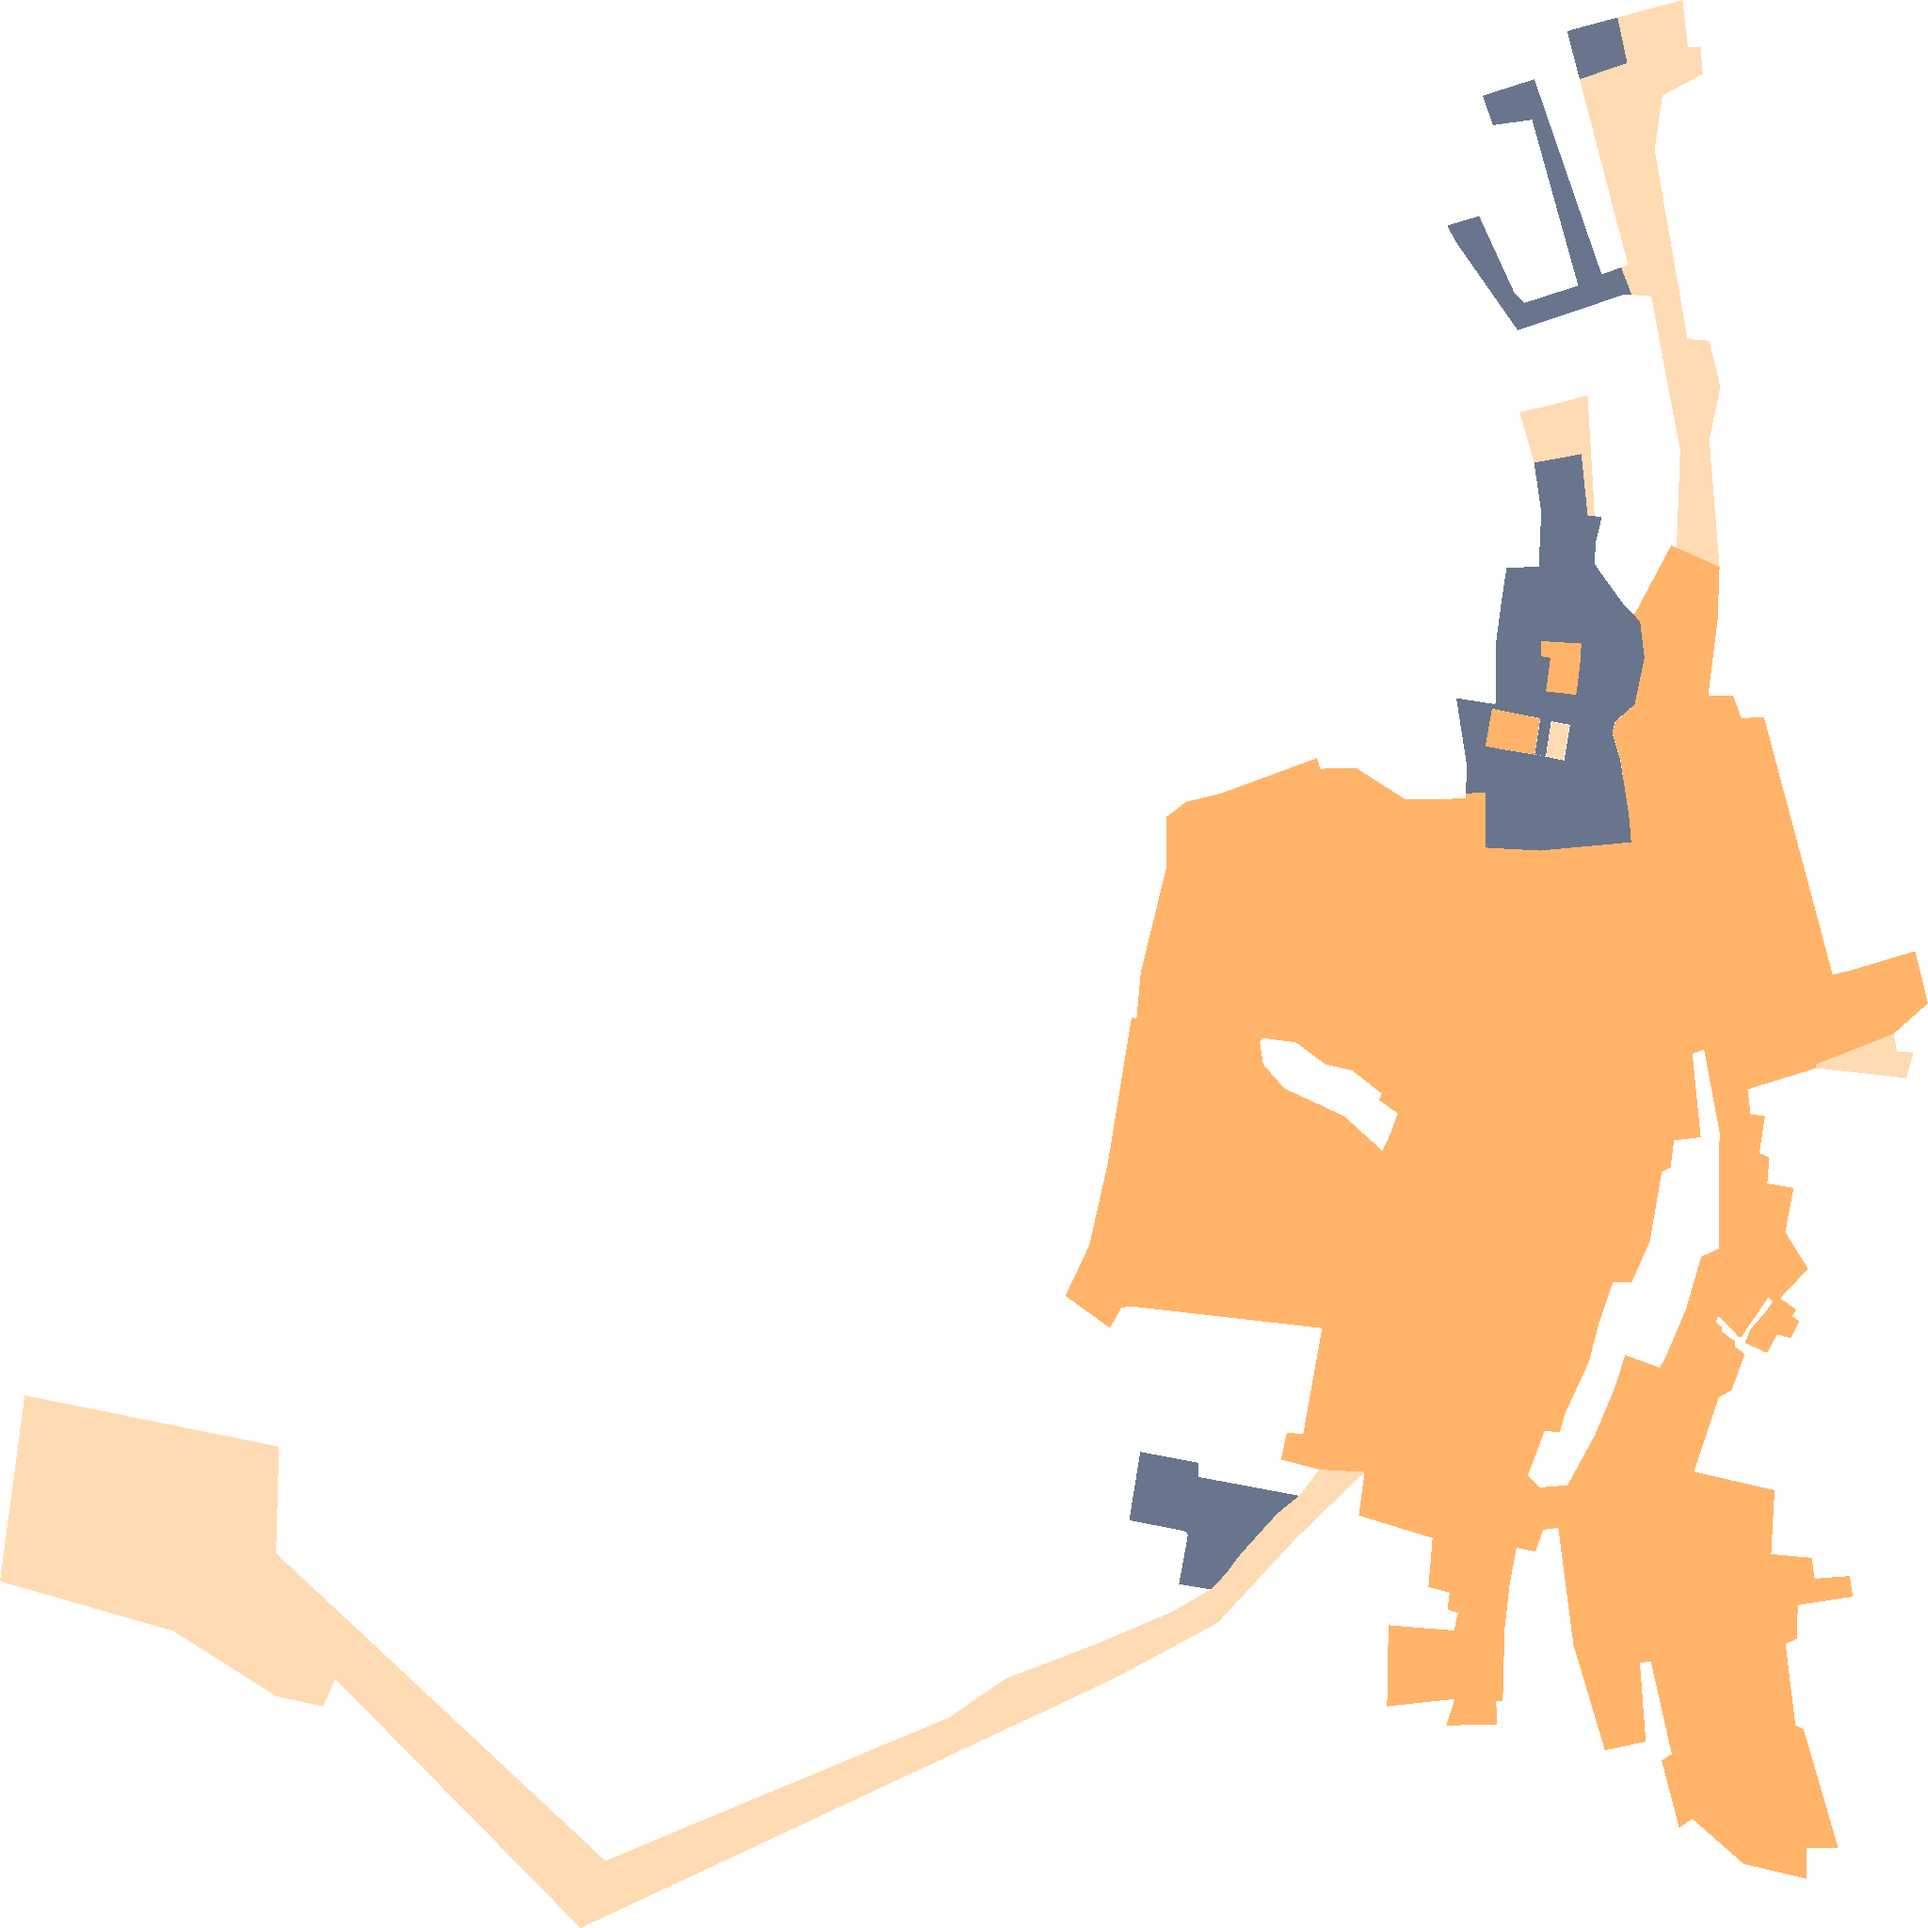
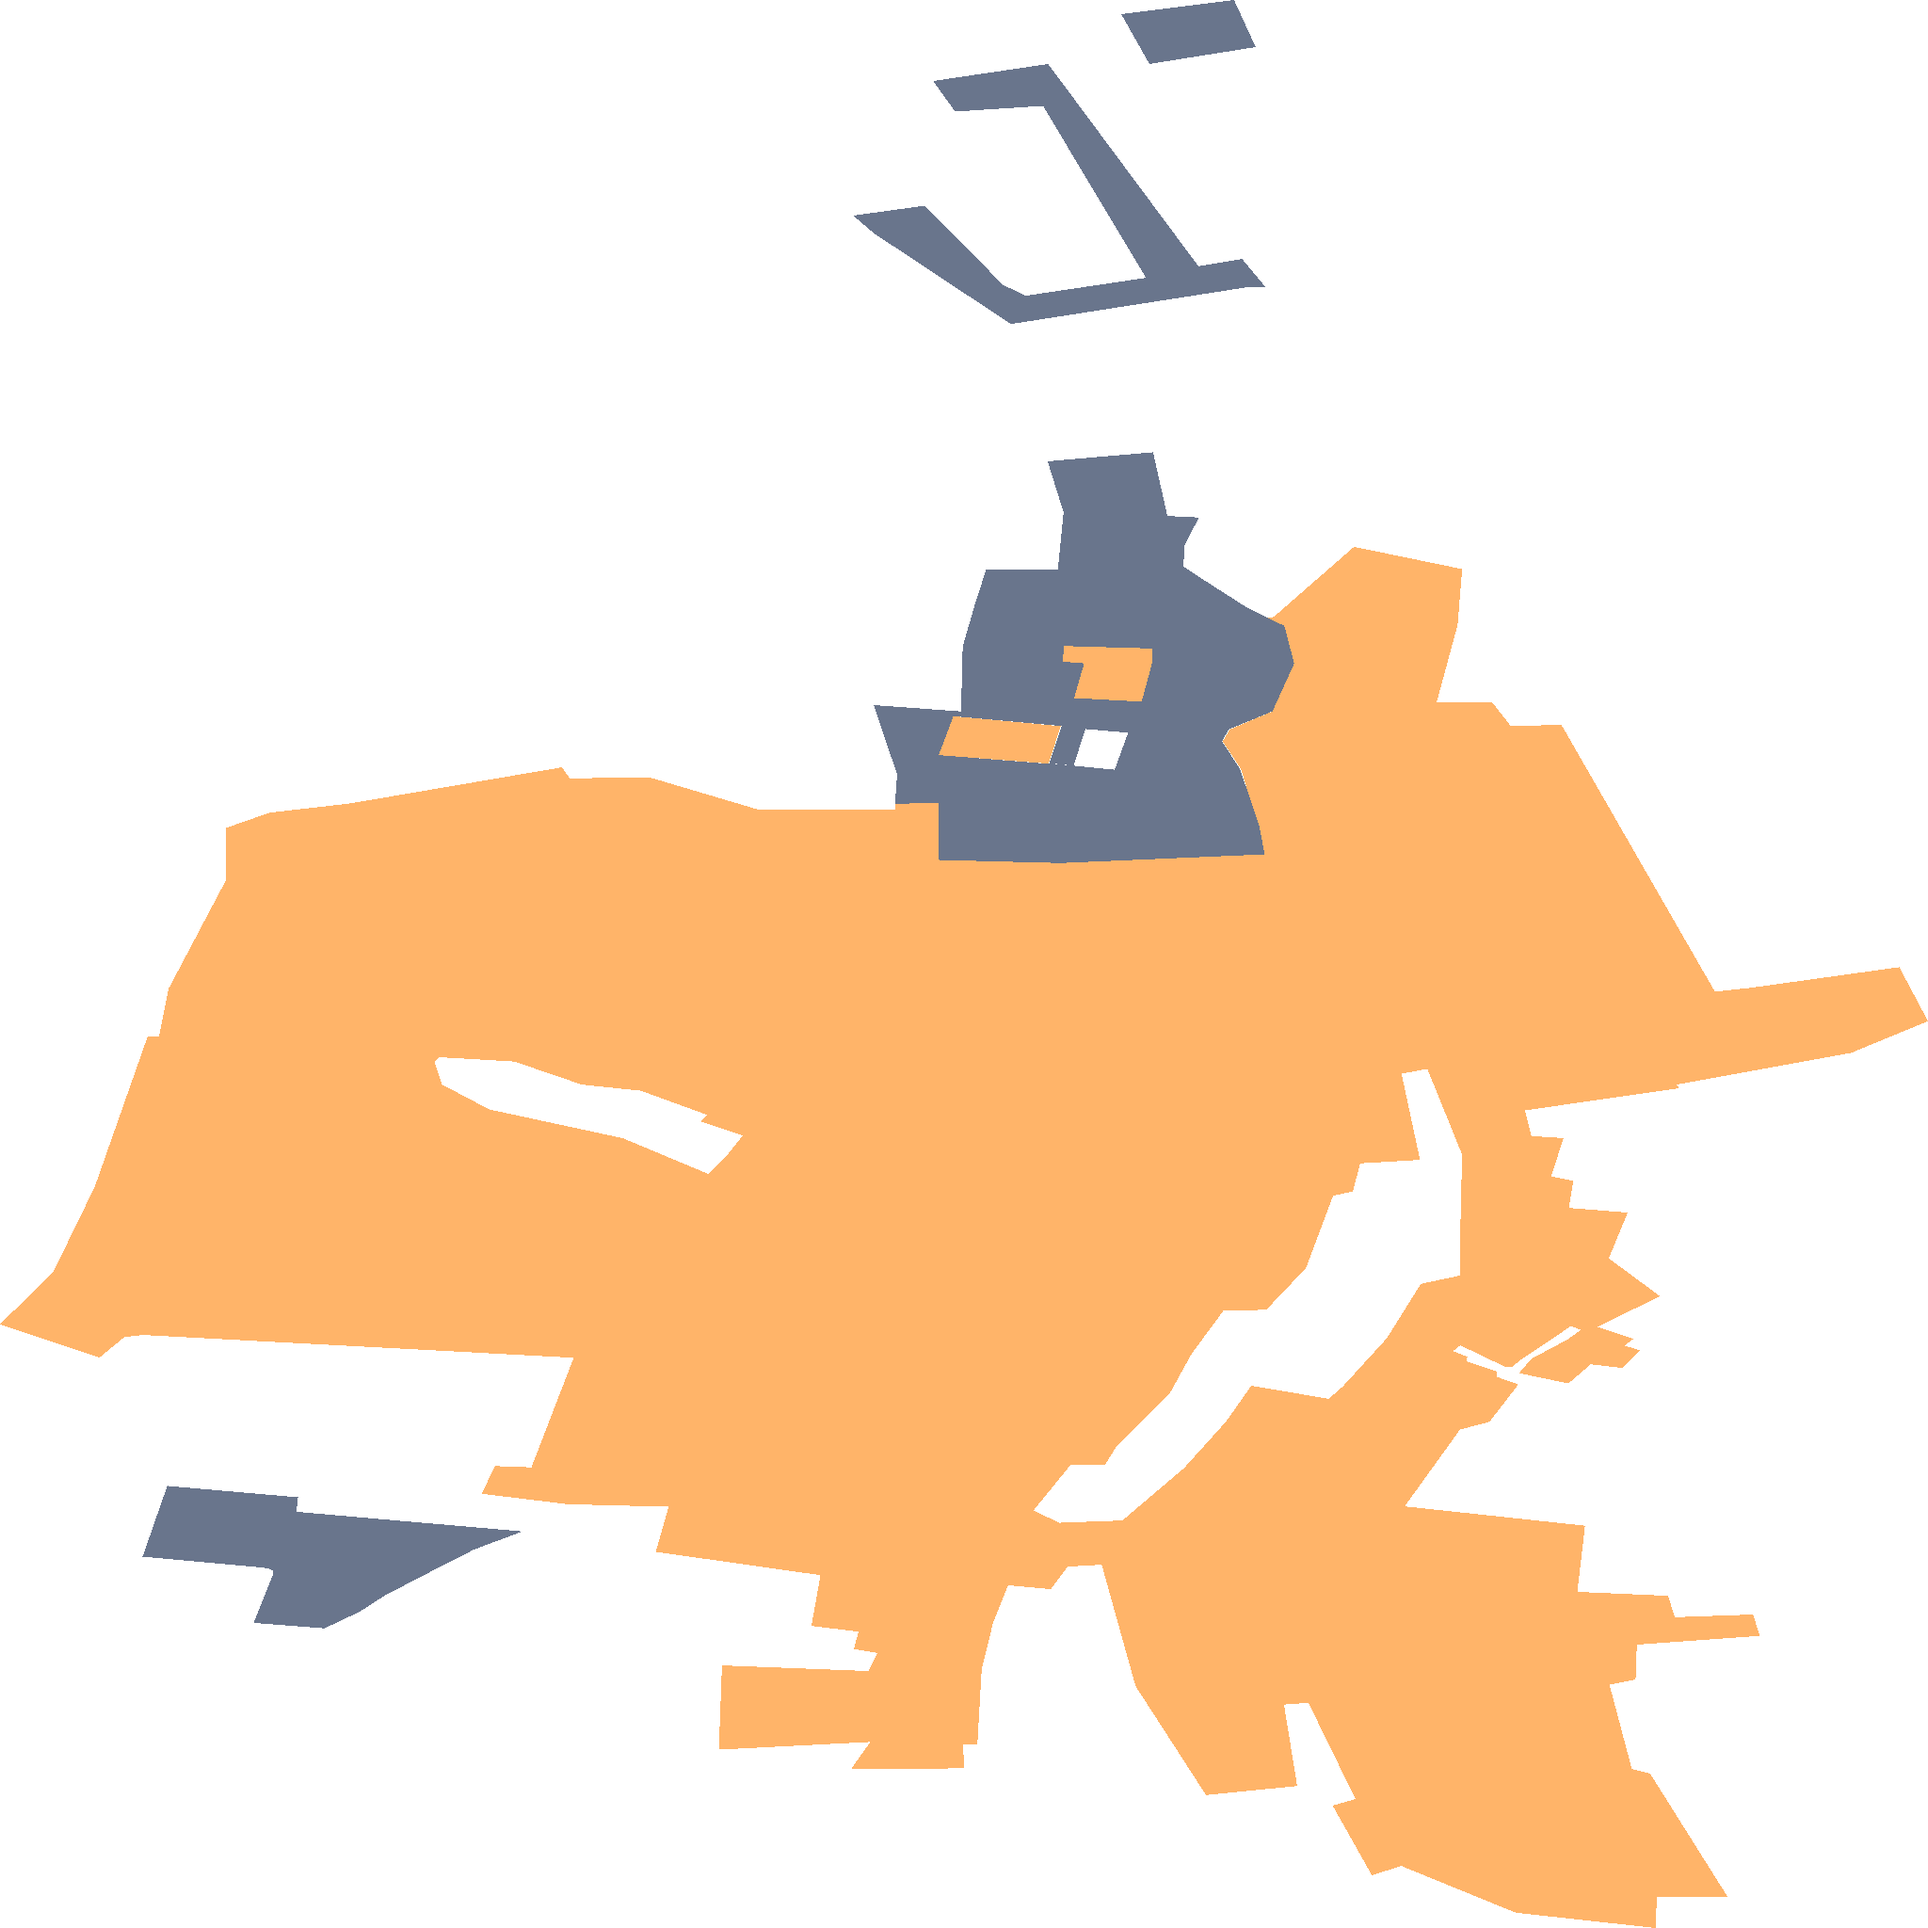
Karte sp_341

diff --git a/sp_341.html b/sp_341.html
@@ -21,14 +21,14 @@
             max-height: 100%;
         }
         .leaflet-control-zoom {
-            background: none !important;
-            box-shadow: none !important;
+            background: none;
+            box-shadow: none;
             border: none !important;
         }
         .leaflet-control-zoom-in, .leaflet-control-zoom-out {
-            background-color: white !important;
-            color: grey !important; 
-            border: none !important;
+            background-color: white;
+            color: grey; 
+            border: none;
             width: 30px;
             height: 30px;
             display: flex;
@@ -40,7 +40,7 @@
             box-shadow: 0 1px 3px rgba(0, 0, 0, 0.3); 
         }
         .leaflet-control-zoom-in:hover, .leaflet-control-zoom-out:hover {
-            background-color: #f0f0f0 !important; 
+            background-color: #f0f0f0; 
         }
         .custom-control {
             position: absolute;
@@ -86,9 +86,9 @@
         }
         #legend {
             position: absolute;
-            top: 160px;
-            left: 10px;
-            display: none;
+            top: 20px;
+            left: 60px;
+            display: block;
             z-index: 1000;
             background: white;
             padding: 10px;
@@ -115,9 +115,9 @@
         <div><span style="display:inline-block;width:20px; height:10px; background:#FFC17D; margin-right:5px;"></span>Ausbauphase 3: Gefördertes Ausbaugebiet </div>
     </div>
     <script>
-    const bounds = [[49.183372853, 8.902588364], [49.206096162, 8.9408351]];
+    const bounds = [[49.183954839, 8.923724359], [49.205890024, 8.9408351]];
     const map = L.map('map', {zoomControl: false});
-      map.fitBounds(bounds);
+      map.fitBounds(bounds, {padding: [100, 100]});
         const maptiler = L.tileLayer('https://api.maptiler.com/maps/basic/{z}/{x}/{y}.png?key=UrGMdlREnrfymuiwCa7d',
         {attribution: '&copy; MapTiler https://maptiler.com', tileSize: 512, zoomOffset: -1, maxZoom: 20, className: 'grayscale-tiles',
         }).addTo(map);
@@ -135,19 +135,6 @@
             }
         });
         map.addControl(new zoomFullExtentControl());
-        const legendControl = L.Control.extend({
-            options: { position: 'topleft' },
-            onAdd: function () {
-                const container = L.DomUtil.create('div', 'custom-control2');
-                container.innerHTML = '<i class="fas fa-list"></i>';
-                L.DomEvent.on(container, 'click', () => {
-                    const legend = document.getElementById('legend');
-                    legend.style.display = legend.style.display === 'none' ? 'block' : 'none';
-                });
-                return container;
-            }
-        });
-        map.addControl(new legendControl());
         const markerLayerGroup = L.layerGroup().addTo(map);
     </script>
 </body>
